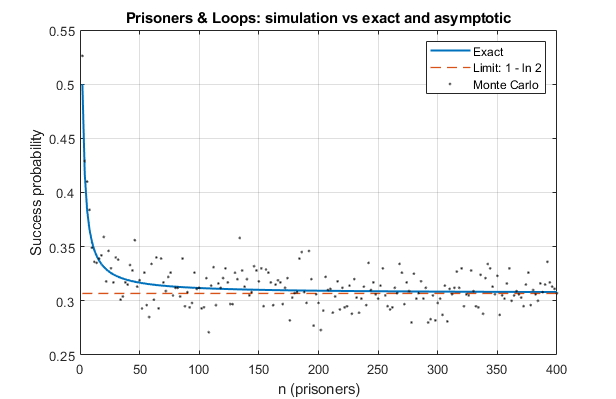
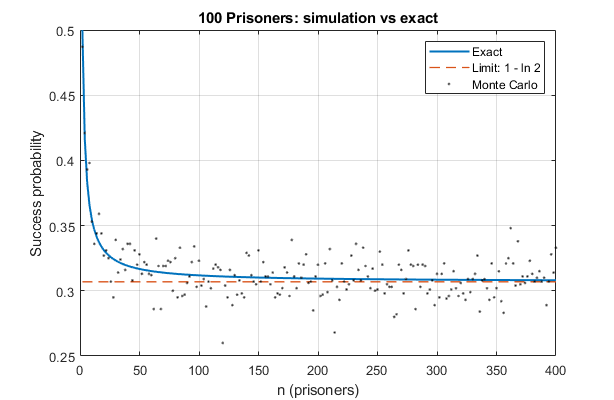
Plot fix

diff --git a/prisoners_demo.m b/prisoners_demo.m
@@ -2,7 +2,7 @@
 
 % Parameters
 N = 200;        % how many even n values to test (n = 2,4,...,2N)
-trials = 1e4;   % Monte Carlo trials per n
+trials = 1e3;   % Monte Carlo trials per n
 
 % Preallocate result arrays
 p_loop = zeros(N,1);    % Estimates for loop strategy
@@ -23,14 +23,14 @@ p_limit = (1 - log(2)) * ones(N,1);
 
 % Plot
 nvals = 2*(1:N);
-figure('Name','Prisoners & Boxes: simulation vs exact'); hold on; grid on; box on;
+figure('Name','100 Prisoners: simulation vs exact'); hold on; grid on; box on;
 plot(nvals, p_exact, '-',  'LineWidth', 1.5);
 plot(nvals, p_limit, '--', 'LineWidth', 1);
 plot(nvals, p_loop, 'k.', 'MarkerSize', 4);
 legend('Exact', 'Limit: 1 - ln 2', 'Monte Carlo', 'Location','northeast');
 xlabel('n (prisoners)'); ylabel('Success probability');
-title('Prisoners & Loops: simulation vs exact and asymptotic');
+title('100 Prisoners: simulation vs exact');
 
 % Results at n=100 (i=50)
-fprintf('Check n=100: exact=%.6f, MC≈%.6f, random=%.2e\n', ...
+fprintf('Check n=100: exact=%.6f, simulated≈%.6f, random choice=%.2e\n', ...
     p_exact(50), p_loop(50), 2^-100);
